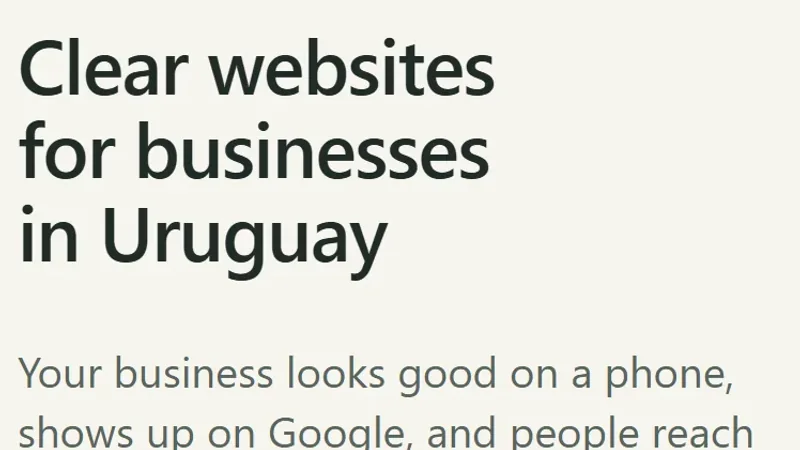
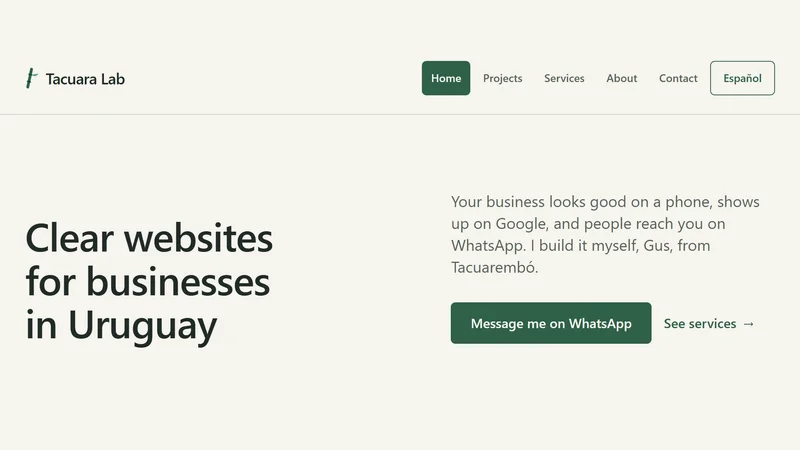
Fix framed Tacuara Lab project covers in ES and EN

diff --git a/PROJECT.md b/PROJECT.md
@@ -24,6 +24,7 @@ Home, Projects (grid + one case study page per project), Services & pricing, Abo
 - Privacy-friendly analytics
 
 ## Status
+- [x] Tacuara Lab Projects cover fix (ES/EN), 2026-11-24: both card covers share the same 16:9 size, 6px corners and 1px Line-token frame. Regenerated the localized Tacuara Lab covers with the complete header and hero, ending after the buttons and before the next section; the full capture fits inside 800×450 without cutting text (17,040/16,750 bytes). Capture script now measures the hero boundary and supports documented `--covers-only` reruns. Localized alt text, page copy/metadata, Cero Yuyo source cover and browser scripts unchanged. Build, Astro check (zero diagnostics), capture-script syntax and eight Projects layouts at 360/390/768/1024px passed: equal cover dimensions, desktop alignment and no horizontal overflow. Mobile Lighthouse on both Projects pages: 100/100/100/69 (Performance/Accessibility/Best Practices/SEO), CLS 0, no run warnings; SEO remains limited by the required noindex gate. INDEXABLE=false and scripts/indexing unchanged across all 16 HTML pages.
 - [x] Projects/case study polish (ES/EN), 2026-11-24: tightened image/section/CTA/card-link spacing with existing tokens; active navigation has 12px side padding and all six links fit one row at 360/390px; added three localized 16:9 WebP covers (20,960–42,658 bytes). Committed the portable screenshot/covers capture script, regenerated the four screenshots and documented reruns. Verified npm ci, build and Astro check (zero diagnostics), identical copy/SEO/executable scripts and noindex on all 16 HTML pages, 42 overflow-free layouts at 360/390/1024px, and local mobile Lighthouse ES Projects/Tacuara Lab both 100/100/100/69 (Performance/Accessibility/Best Practices/SEO), CLS 0. INDEXABLE=false; palette and live Worker unchanged.
 - [x] Projects copy and Tacuara Lab case study redesign (ES/EN), 2026-11-24: exact Projects intros/descriptions and shared CTA; four real local Home/Services screenshots at 390×844, scale 2 (WebP, 57,688–68,382 bytes), responsive Astro images, open facts and build note. Cero Yuyo structure, palette, DESIGN.md and other SEO unchanged; INDEXABLE=false. Verified npm ci, npm run build and npx astro check (zero diagnostics), noindex and unchanged executable scripts on all 16 HTML pages, and no overflow on all 14 localized routes at 390/1024px. Local Lighthouse mobile ES Tacuara Lab 100/100/100/69 and Projects 100/100/100/66 (Performance/Accessibility/Best Practices/SEO), CLS 0, no run warnings.
 - [x] SEO + structured data done (2026-11-24); `INDEXABLE` defaults to `false`, flip to `true` in Phase 4 only.

diff --git a/README.md b/README.md
@@ -23,6 +23,7 @@ Astro's checker on Windows.
 
 After pricing or copy changes, run `npm ci` and `npm run build`; prepare the capture tool with `npm exec --yes --package=playwright -- playwright --version` (Google Chrome must be installed).
 Run `node scripts/capture-case-study-screenshots.mjs` to regenerate the four 390×844 @2x screenshots and three card covers from the local build; set `CHROME_PATH` or `PLAYWRIGHT_MODULE` if needed.
+Add `--covers-only` to refresh just the card covers. Tacuara Lab covers capture the complete header and hero at 1024px wide, ending after the hero buttons; the full capture fits inside 800×450 on the existing page background without cutting text.
 Run `npm run build` again and review both languages before committing the updated WebP files in `src/assets/tacuara-lab/` and `src/assets/project-covers/`.
 
 `INDEXABLE` in `src/data/site.ts` defaults to `false` (noindex, blocked robots, no sitemap); flip to `true` in Phase 4 only to allow indexing and emit `/sitemap.xml` with ES/EN alternates.
